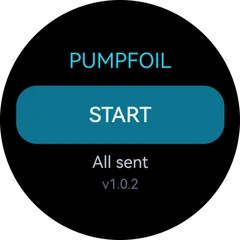
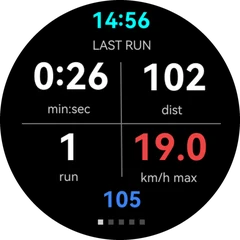
Startseite: alle neun Huawei-Emulator-Bilder im Karussell (Jan)
Einstellungs-Bilder #7/#8 mit Kreis-Anpassung an den Display-Rand zugeschnitten (die
Kacheln reichen bis an den Rand, die Flaechen-Methode vermass sie zu klein).

Claude-Session: https://claude.ai/code/session_01SwpsW3PioXLbF9Wo2iJrfq

diff --git a/web/src/pages/Landing.tsx b/web/src/pages/Landing.tsx
@@ -330,7 +330,7 @@ export default function Landing() {
                   Display zugeschnitten. Noch nicht installierbar (Wear-Engine-Freigabe steht aus) —
                   deshalb „kommt bald" statt eines Store-Knopfs. */}
               <WatchCarousel rounded="rounded-full" caption="Huawei" sub="Watch GT · Fit · Watch 3/4/5"
-                images={["/watch-huawei-1.webp", "/watch-huawei-2.webp", "/watch-huawei-3.webp", "/watch-huawei-4.webp"]}
+                images={[1, 2, 3, 4, 5, 6, 7, 8, 9].map((n) => `/watch-huawei-${n}.webp`)}
                 plakette={t("land.huaweiNew")}
                 badge={<span className="mt-2 inline-block rounded-lg border border-brand-500/50 px-3 py-2 text-sm font-semibold text-brand-600 dark:text-brand-300">{t("land.huaweiSoon")}</span>} />
             </div>
